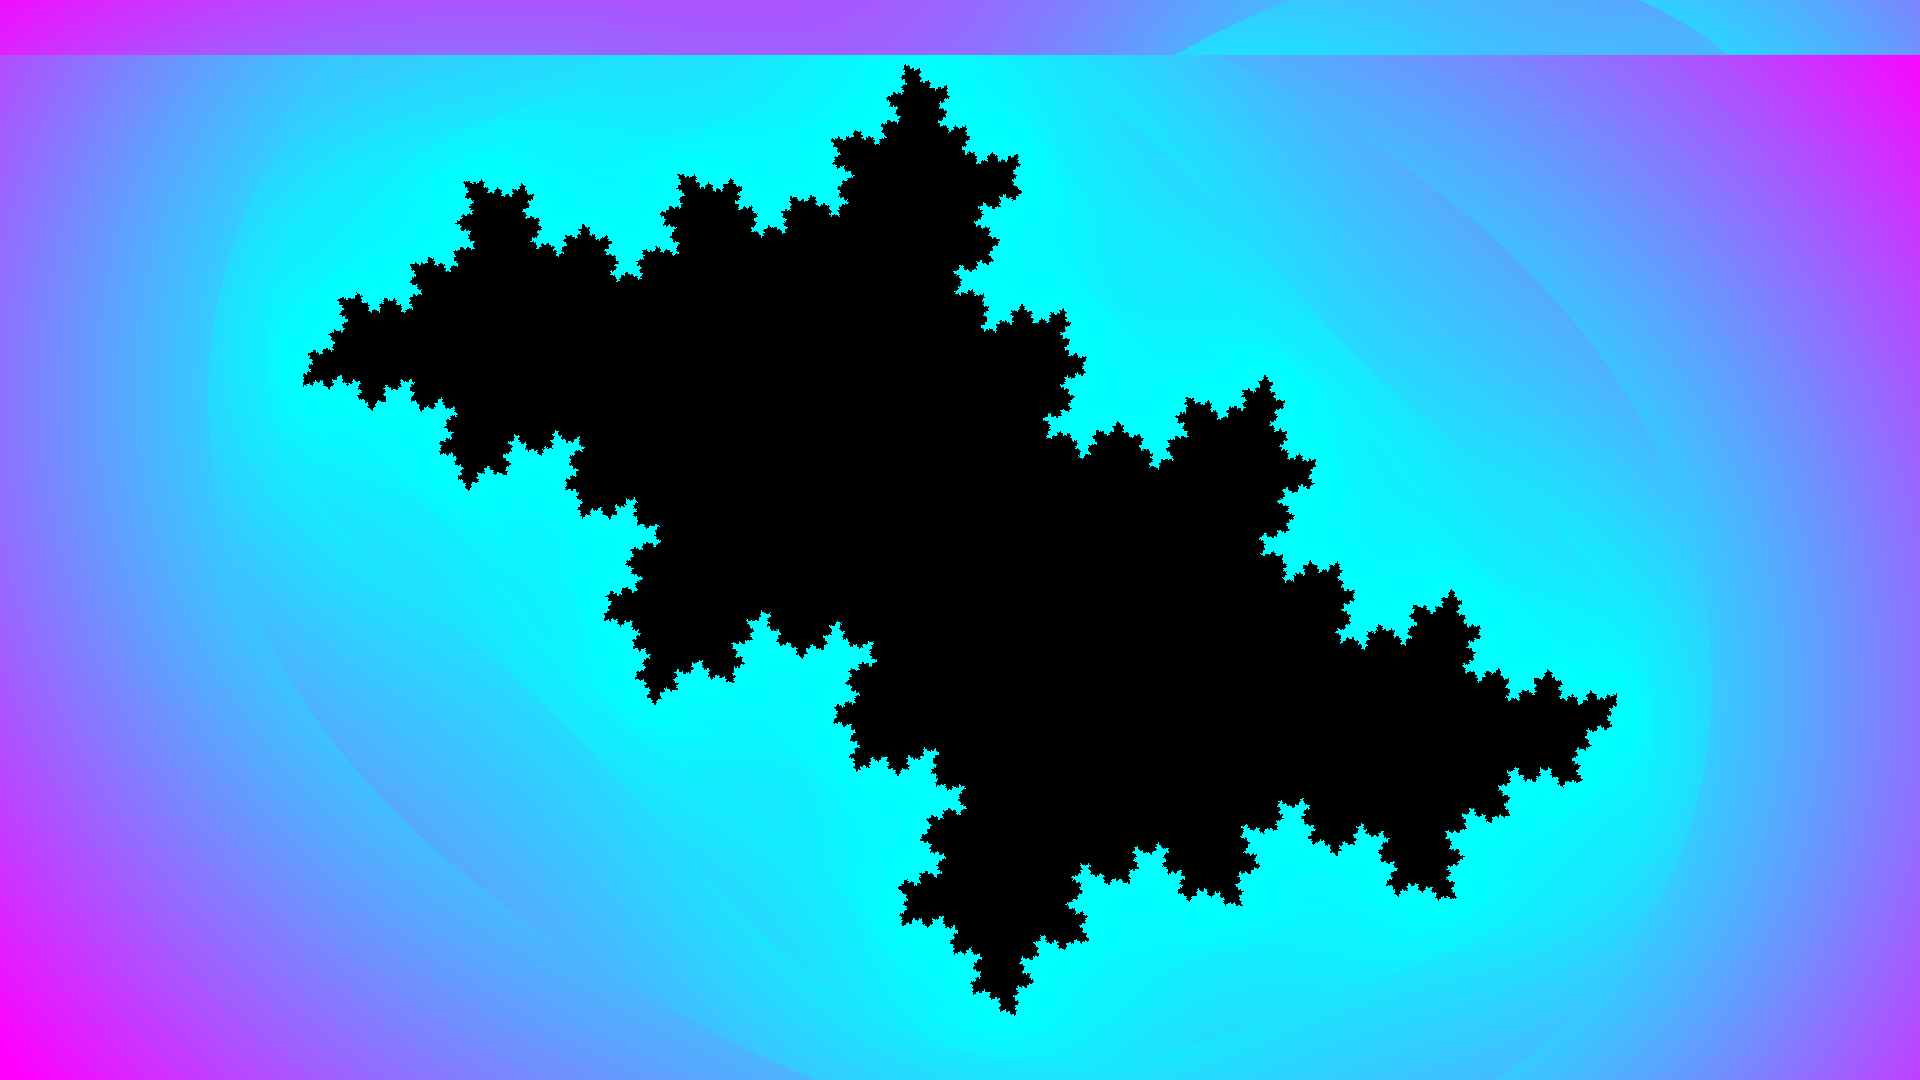
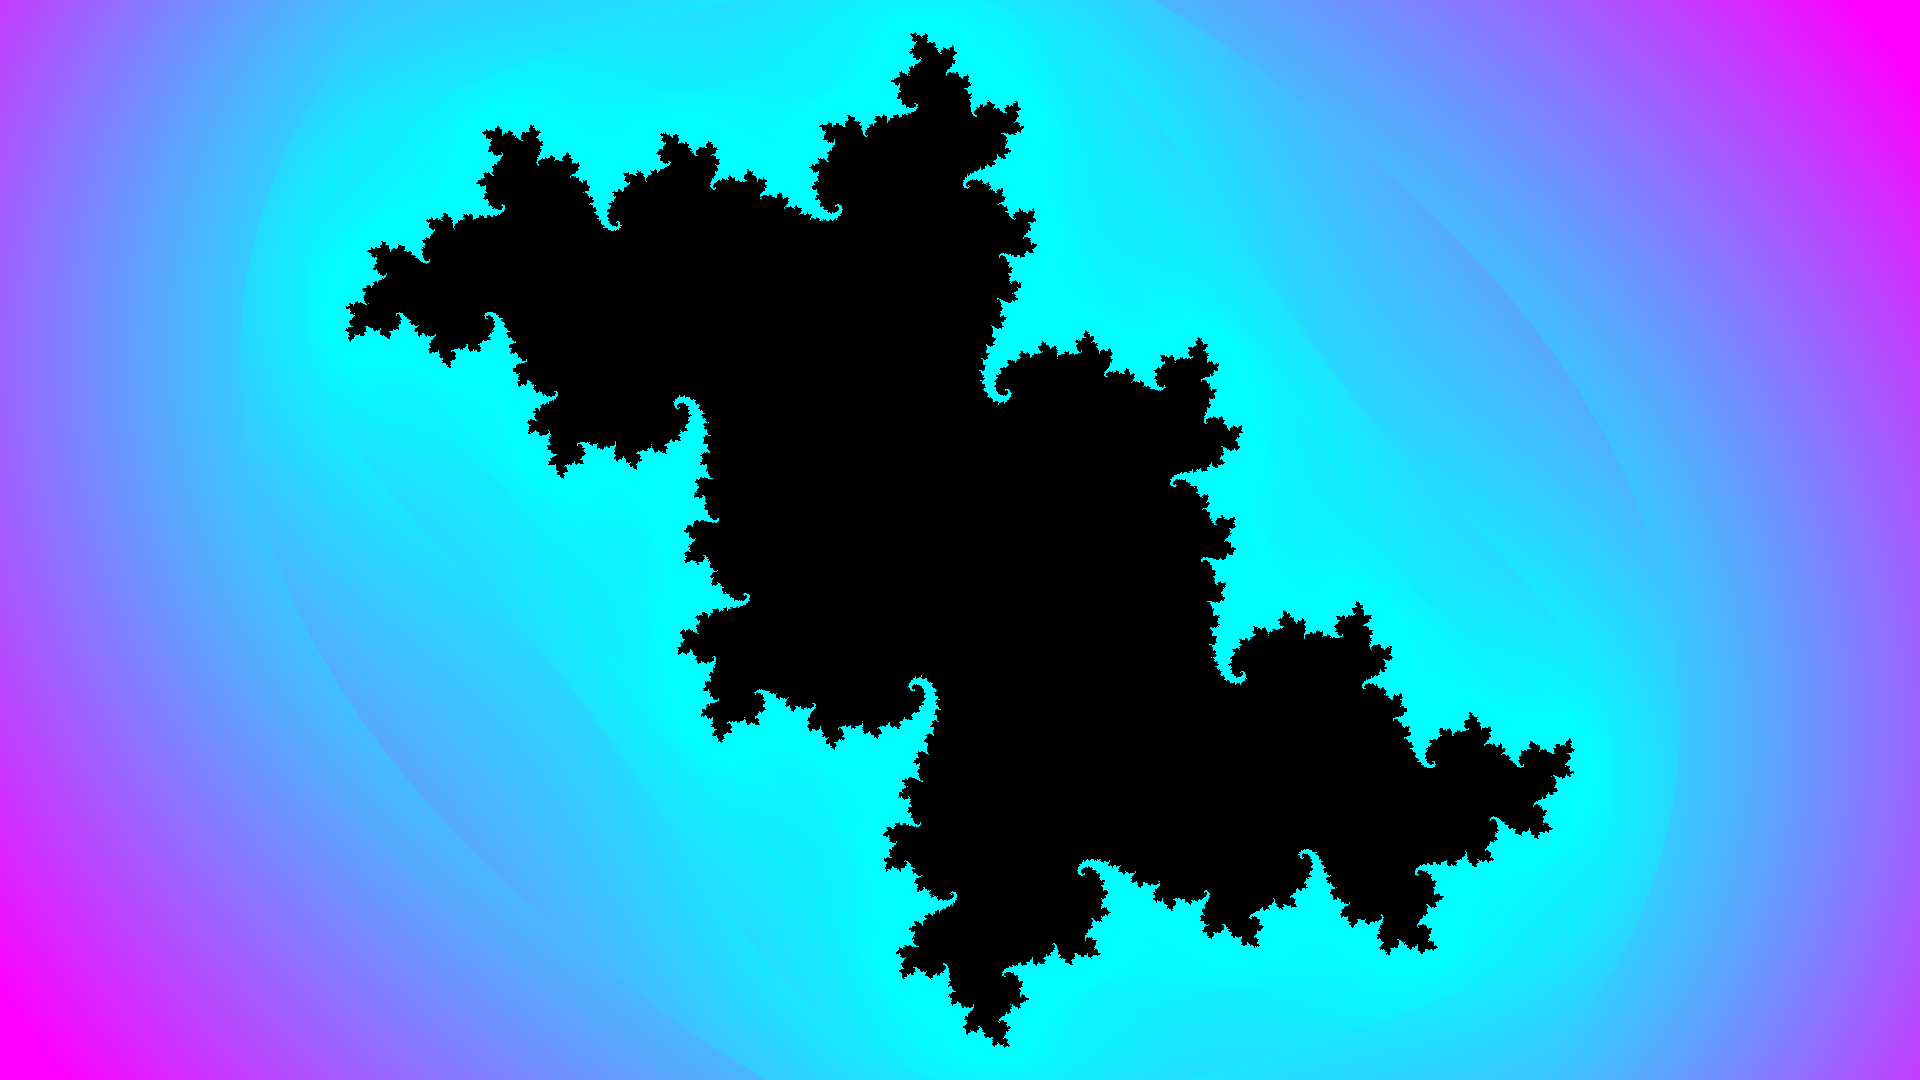
fix rendering glitch, add key to toggle fullscreen

Changed region(s): [[0.0, 0.0, 1.0, 0.9778], [0.375, 0.9778, 0.4375, 1.0]]

diff --git a/src/render.c b/src/render.c
@@ -12,6 +12,20 @@ static void error_callback(int error, const char* description) {
     printf("glfw error: %s\n", description);
 }
 
+void key_callback(GLFWwindow* window, int key, int scancode, int action, int mods) {
+    if (key == GLFW_KEY_Q && action == GLFW_PRESS) {
+        glfwSetWindowShouldClose(window, true);
+    }
+    if (key == GLFW_KEY_F && action == GLFW_PRESS) {
+        if (glfwGetWindowMonitor(window)) {
+            glfwSetWindowMonitor(window, NULL, 0, 0, 800, 600, 60);
+        } else {
+            const GLFWvidmode* mode = glfwGetVideoMode(glfwGetPrimaryMonitor());
+            glfwSetWindowMonitor(window, glfwGetPrimaryMonitor(), 0, 0, mode->width, mode->height, 60);
+        }
+    }
+}
+
 int main() {
     //setup glfw, window
     glfwSetErrorCallback(error_callback);
@@ -19,12 +33,12 @@ int main() {
         printf("glfw error: failed to initialise\n");
 		return 1;
     }
-    const GLFWvidmode* mode = glfwGetVideoMode(glfwGetPrimaryMonitor());
     glfwWindowHint(GLFW_CONTEXT_VERSION_MAJOR, 4);
     glfwWindowHint(GLFW_CONTEXT_VERSION_MINOR, 5);
     glfwWindowHint(GLFW_OPENGL_FORWARD_COMPAT, GL_TRUE);
     glfwWindowHint(GLFW_OPENGL_PROFILE, GLFW_OPENGL_CORE_PROFILE);
-    GLFWwindow* window = glfwCreateWindow(mode->width, mode->height, "project", glfwGetPrimaryMonitor(), NULL);
+    const GLFWvidmode* mode = glfwGetVideoMode(glfwGetPrimaryMonitor());
+    GLFWwindow* window = glfwCreateWindow(800, 600, "project", NULL, NULL);
     if (!window) {
         glfwTerminate();
         printf("glfw error: failed to create window\n");
@@ -34,6 +48,7 @@ int main() {
     //glfwSwapInterval(1);
     //glfwSetInputMode(window, GLFW_CURSOR, GLFW_CURSOR_DISABLED);
     glfwSetInputMode(window, GLFW_STICKY_KEYS, 1);
+    glfwSetKeyCallback(window, key_callback);
 
     //create programs
     char* error_log = calloc(4096, sizeof(char));
@@ -85,9 +100,6 @@ int main() {
     glfwSetTime(0);
     for (uint64_t frames = 0;; frames++) {
         glfwPollEvents();
-        if (glfwGetKey(window, GLFW_KEY_Q) == GLFW_PRESS) {
-            glfwSetWindowShouldClose(window, true);
-        }
         if (glfwWindowShouldClose(window)) {
             printf("%f\n", frames / glfwGetTime());
             glfwDestroyWindow(window);
@@ -99,9 +111,11 @@ int main() {
         glfwGetCursorPos(window, &mx, &my);
         inputs.mouse_x += (mx - inputs.mouse_x) * 0.01;
         inputs.mouse_y += (my - inputs.mouse_y) * 0.01;
-        mode = glfwGetVideoMode(glfwGetPrimaryMonitor());
-        inputs.resolution_x = mode->width;
-        inputs.resolution_y = mode->height;
+        int width, height;
+        glfwGetWindowSize(window, &width, &height);
+        glViewport(0, 0, width, height);
+        inputs.resolution_x = width;
+        inputs.resolution_y = height;
         glBufferSubData(GL_UNIFORM_BUFFER, 0, sizeof(inputs), &inputs);
 
         glDrawArrays(GL_TRIANGLES, 0, 3);

diff --git a/readme.md b/readme.md
@@ -1,1 +1,5 @@
+# OpenGL Julia Set Renderer
+
+Mouse controls the C value. Q will quit, F will toggle fullscreen.
+
 ![screenshot](screenshot.png)
